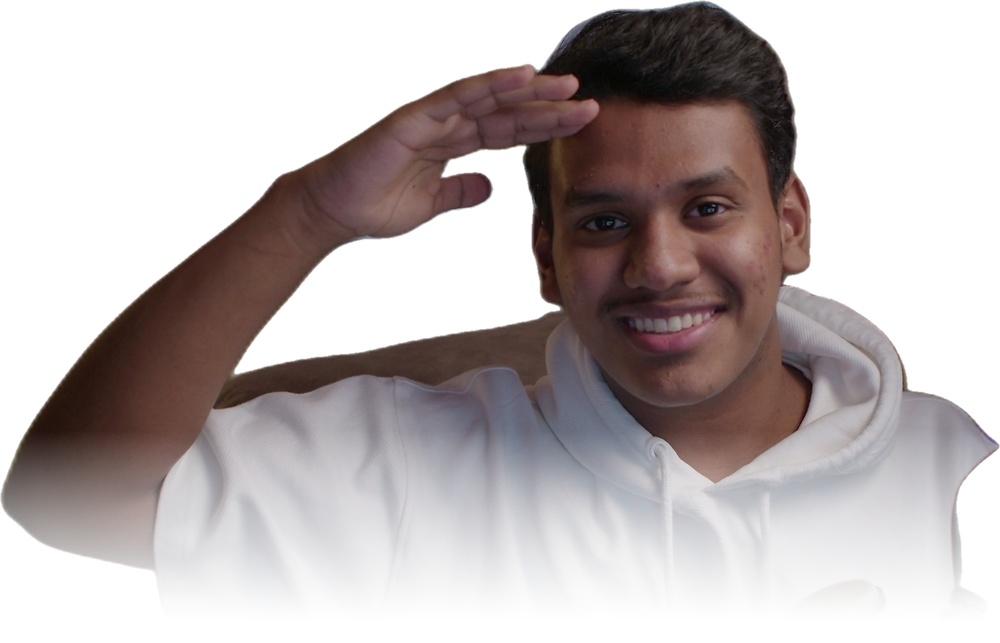
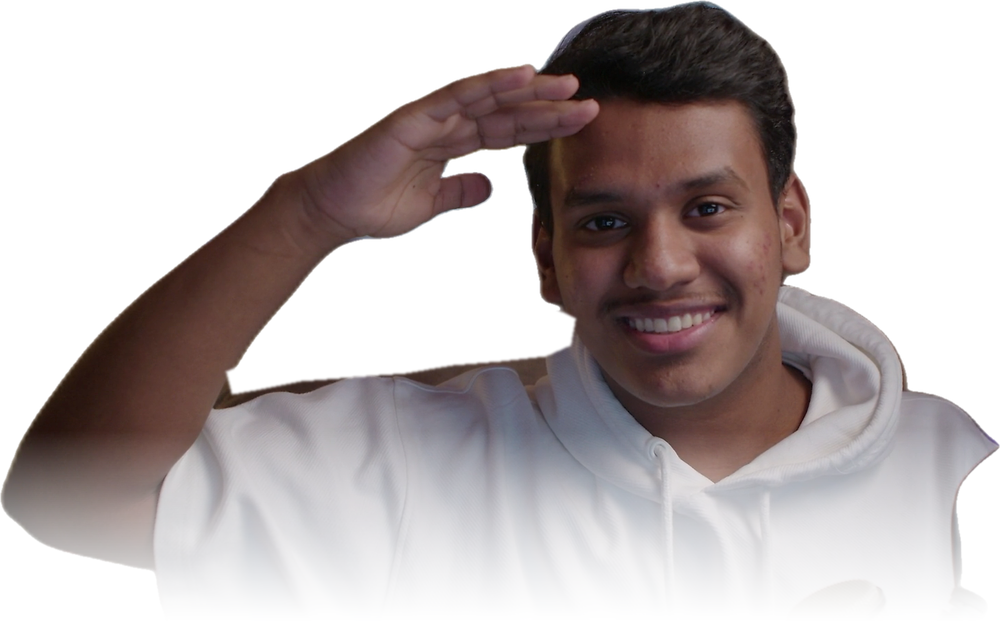
Hero: head breaks out of the circle, body framed inside; remove sofa patch from cutout
Claude-Session: https://claude.ai/code/session_0123EXM4VbxPYrHYA1s7bXMF

Changed region(s): [[0.217, 0.4666, 0.589, 0.6221]]

diff --git a/app/globals.css b/app/globals.css
@@ -121,6 +121,8 @@ main { overflow-x: clip; }
 .portal-ring { position: absolute; inset: 6%; border-radius: 50%; border: 1.5px solid color-mix(in srgb, var(--neon) 55%, transparent); border-top-color: transparent; border-left-color: transparent; animation: spin 14s linear infinite; filter: drop-shadow(0 0 8px var(--primary)); }
 .portal-ring-2 { inset: 1%; border: 1px dashed rgba(255,255,255,.18); animation-duration: 40s; animation-direction: reverse; filter: none; }
 .portal-word { position: absolute; inset-inline: 0; top: 4%; text-align: center; font-family: var(--font-display); font-weight: 700; font-size: clamp(5rem, 22vw, 11rem); line-height: 1; color: transparent; -webkit-text-stroke: 1.5px rgba(255,255,255,.12); letter-spacing: -.03em; user-select: none; }
+.portal-figure { -webkit-mask-image: radial-gradient(closest-side, #000 71%, transparent 72%), radial-gradient(ellipse 46% 30% at 52% 27%, #000 62%, transparent 100%); mask-image: radial-gradient(closest-side, #000 71%, transparent 72%), radial-gradient(ellipse 46% 30% at 52% 27%, #000 62%, transparent 100%); }
+.portal-img { filter: brightness(1.08) contrast(1.05) drop-shadow(0 20px 40px rgba(0,0,0,.6)); }
 .portal-floor { position: absolute; left: 10%; right: 10%; bottom: 2%; height: 12%; border-radius: 50%; background: radial-gradient(ellipse, color-mix(in srgb, var(--primary) 55%, transparent), transparent 70%); filter: blur(8px); }
 @keyframes spin { to { transform: rotate(360deg); } }
 @keyframes shimmer { to { background-position: 200% center; } }

diff --git a/components/hero.tsx b/components/hero.tsx
@@ -99,8 +99,10 @@ export function Hero() {
             <div className="portal-ring portal-ring-2" aria-hidden />
             <div className="portal-core" aria-hidden />
             <span className="portal-word" aria-hidden dir="ltr">{site.name}</span>
-            <div className="absolute inset-x-[-6%] bottom-[6%] top-[14%]">
-              <Image src={site.profileImage} alt={`${site.name} — ${site.realName[lang]}`} fill priority sizes="(max-width: 1024px) 92vw, 560px" className="object-contain object-bottom drop-shadow-[0_30px_60px_rgba(0,0,0,.7)]" />
+            <div className="portal-figure absolute inset-0">
+              <div className="absolute bottom-[11%] left-[-22%] aspect-[1000/643] w-[120%]">
+                <Image src={site.profileImage} alt={`${site.name} — ${site.realName[lang]}`} fill priority sizes="(max-width: 1024px) 110vw, 680px" className="portal-img object-contain object-bottom" />
+              </div>
             </div>
             <div className="portal-floor" aria-hidden />
           </motion.div>
